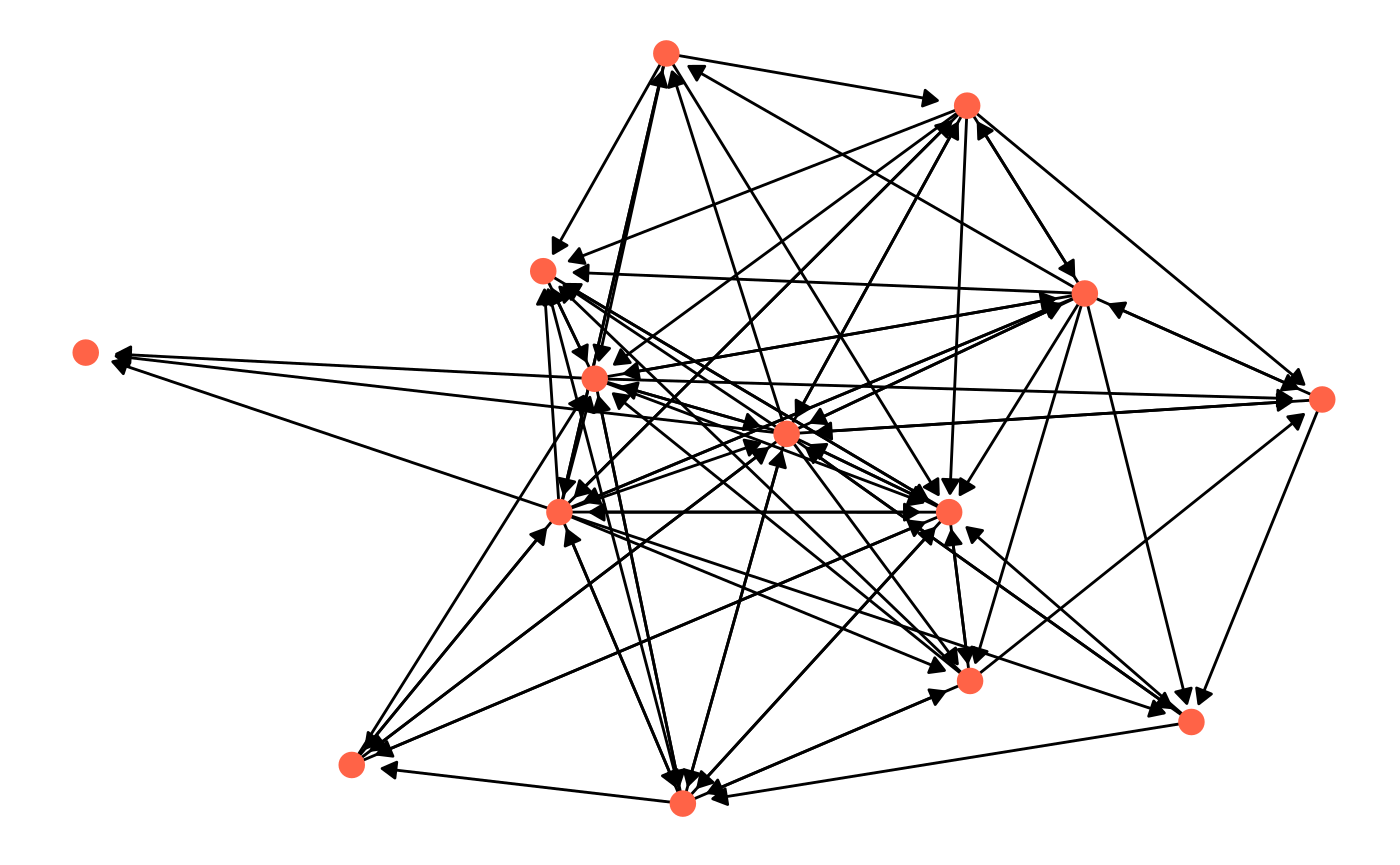
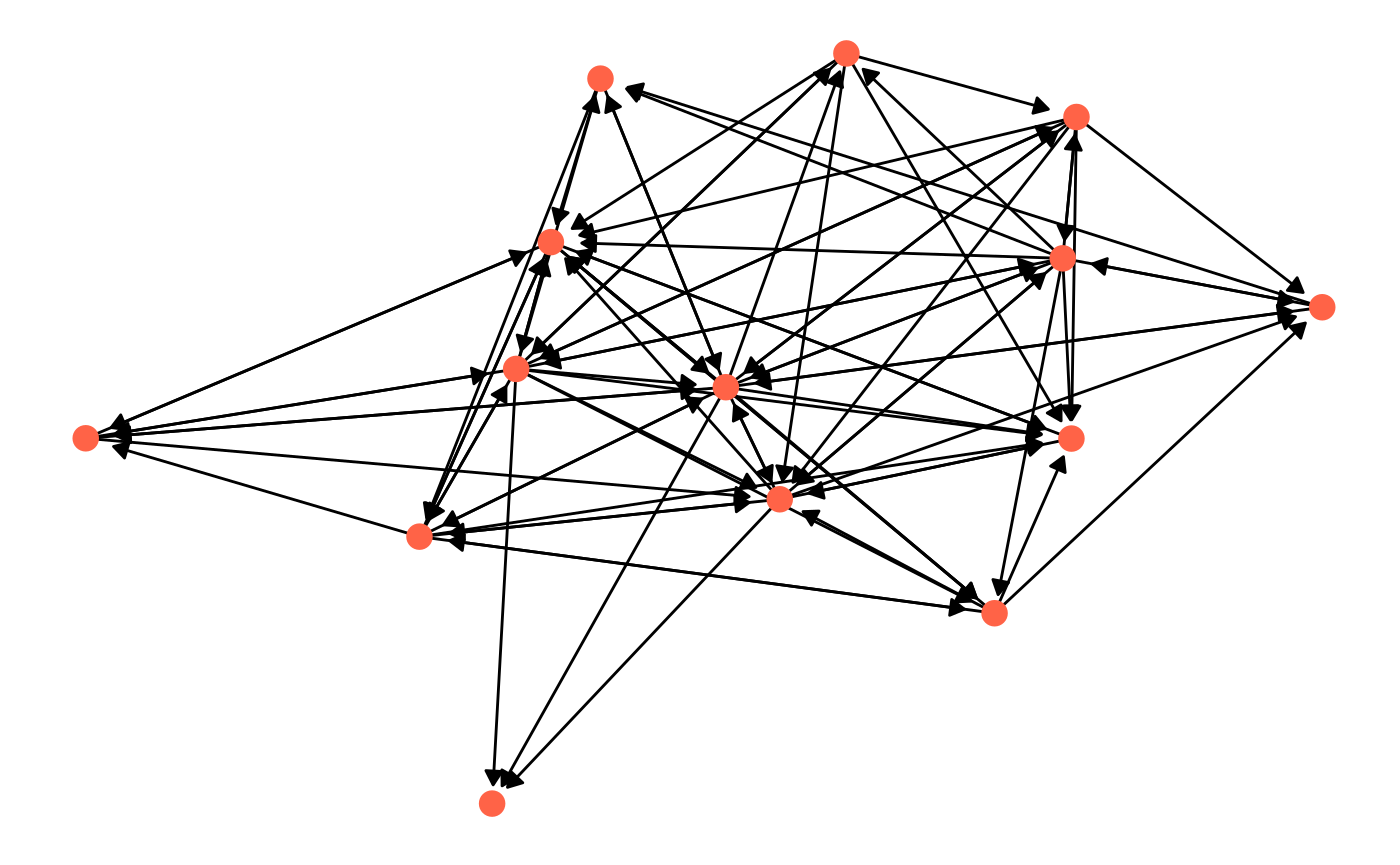
Built site for ggnetwork: 0.5.6.9000@9901226

diff --git a/dev/articles/ggnetwork.html b/dev/articles/ggnetwork.html
@@ -121,7 +121,7 @@
 ##                 colour = NA), panel.border = ggplot2::element_blank(), 
 ##             panel.grid = ggplot2::element_blank(), ...)
 ## }
-## &lt;bytecode: 0x2f12cd0&gt;
+## &lt;bytecode: 0x353f2e8&gt;
 ## &lt;environment: namespace:ggnetwork&gt;</code></pre>
 </div>
 <div id="main-building-blocks" class="section level2">
@@ -140,36 +140,36 @@
 <p>The <code>layout</code> argument will also accept user-submitted coordinates as a two-column matrix with as many rows as the number of nodes in the network.</p>
 <p>The top of the data frame produced by <code>ggnetwork</code> contains self-loops to force every node to be included in the plot. This explains why the rows shown below have the same values in <code>"x"</code> and <code>"xend"</code> (and in <code>"y"</code> and <code>"yend"</code>), and only missing values in the columns corresponding to the edge attributes:</p>
 <div class="sourceCode" id="cb10"><pre class="sourceCode r"><code class="sourceCode r"><a class="sourceLine" id="cb10-1" data-line-number="1"><span class="kw"><a href="https://www.rdocumentation.org/packages/utils/topics/head">head</a></span>(<span class="kw"><a href="../reference/ggnetwork.html">ggnetwork</a></span>(n))</a></code></pre></div>
-<pre><code>##           x          y family importance  na.x vertex.names      xend
-## 1 0.0000000 0.83664933      b          3 FALSE            1 0.0000000
-## 2 0.3835361 1.00000000      b          1 FALSE            2 0.3835361
-## 3 0.4801078 0.00000000      c          2 FALSE            3 0.4801078
-## 4 0.2103222 0.58588879      b          3 FALSE            4 0.2103222
-## 5 0.2316290 0.08596232      c          3 FALSE            5 0.2316290
-## 6 0.5615037 0.58738796      b          3 FALSE            6 0.5615037
-##         yend day na.y type
-## 1 0.83664933  NA   NA &lt;NA&gt;
-## 2 1.00000000  NA   NA &lt;NA&gt;
-## 3 0.00000000  NA   NA &lt;NA&gt;
-## 4 0.58588879  NA   NA &lt;NA&gt;
-## 5 0.08596232  NA   NA &lt;NA&gt;
-## 6 0.58738796  NA   NA &lt;NA&gt;</code></pre>
+<pre><code>##           x         y family importance  na.x vertex.names      xend
+## 1 0.2528402 0.6178930      a          1 FALSE            1 0.2528402
+## 2 0.5587354 1.0000000      b          1 FALSE            2 0.5587354
+## 3 0.8283632 0.9077298      a          3 FALSE            3 0.8283632
+## 4 0.3797748 0.0000000      b          2 FALSE            4 0.3797748
+## 5 1.0000000 0.3466488      b          2 FALSE            5 1.0000000
+## 6 0.8122272 0.5370729      c          2 FALSE            6 0.8122272
+##        yend day na.y type
+## 1 0.6178930  NA   NA &lt;NA&gt;
+## 2 1.0000000  NA   NA &lt;NA&gt;
+## 3 0.9077298  NA   NA &lt;NA&gt;
+## 4 0.0000000  NA   NA &lt;NA&gt;
+## 5 0.3466488  NA   NA &lt;NA&gt;
+## 6 0.5370729  NA   NA &lt;NA&gt;</code></pre>
 <p>The next rows of the data frame contain the actual edges:</p>
 <div class="sourceCode" id="cb12"><pre class="sourceCode r"><code class="sourceCode r"><a class="sourceLine" id="cb12-1" data-line-number="1"><span class="kw"><a href="https://www.rdocumentation.org/packages/utils/topics/head">tail</a></span>(<span class="kw"><a href="../reference/ggnetwork.html">ggnetwork</a></span>(n))</a></code></pre></div>
 <pre><code>##            x         y family importance  na.x vertex.names      xend
-## 12 0.4915009 0.4417324      b          3 FALSE            6 0.2782479
-## 13 0.4915009 0.4417324      b          3 FALSE            6 0.3908431
-## 14 0.7389855 0.2537360      b          3 FALSE            8 0.4915009
-## 15 0.7389855 0.2537360      b          3 FALSE            8 0.9785163
-## 17 1.0000000 0.1855402      c          3 FALSE            9 0.9785163
-## 18 1.0000000 0.1855402      c          3 FALSE            9 0.7389855
+## 15 0.7923830 0.3828918      c          2 FALSE            6 0.5079423
+## 16 0.7923830 0.3828918      c          2 FALSE            6 1.0000000
+## 17 0.8132128 0.8239891      b          3 FALSE            8 1.0000000
+## 18 0.8132128 0.8239891      b          3 FALSE            8 0.4897183
+## 19 0.8132128 0.8239891      b          3 FALSE            8 0.7923830
+## 20 1.0000000 0.3446174      b          2 FALSE            5 0.7482268
 ##         yend day  na.y type
-## 12 0.0000000   1 FALSE    z
-## 13 0.9034813   2 FALSE    z
-## 14 0.4417324   1 FALSE    y
-## 15 0.5130851   2 FALSE    y
-## 17 0.5130851   2 FALSE    y
-## 18 0.2537360   1 FALSE    x</code></pre>
+## 15 0.1757991   3 FALSE    x
+## 16 0.3446174   1 FALSE    z
+## 17 0.3446174   1 FALSE    x
+## 18 1.0000000   1 FALSE    z
+## 19 0.3828918   1 FALSE    x
+## 20 0.0000000   3 FALSE    y</code></pre>
 <p>The data frame returned by <code>ggnetwork</code> has (<em>N</em> + <em>E</em>) rows, where <em>N</em> is the number of nodes of the network, and <em>E</em> its number of edges. This data format is very likely to include duplicate information about the nodes, which is unavoidable.</p>
 <p>Note that <code>ggnetwork</code> does not include any safety mechanism against duplicate column names. As a consequence, if there is both a vertex attribute called <code>"na"</code> and an edge attribute called <code>"na"</code>, as in the example above, then the vertex attribute will be renamed <code>"na.x"</code> and the edge attribute will be renamed <code>"na.y"</code>.</p>
 </div>
@@ -359,7 +359,7 @@
 ##         ggplot2::theme(panel.border = ggplot2::element_rect(fill = NA, 
 ##             color = "grey50"), ...)
 ## }
-## &lt;bytecode: 0x887e4c0&gt;
+## &lt;bytecode: 0x4243e10&gt;
 ## &lt;environment: namespace:ggnetwork&gt;</code></pre>
 </div>
 </div>
